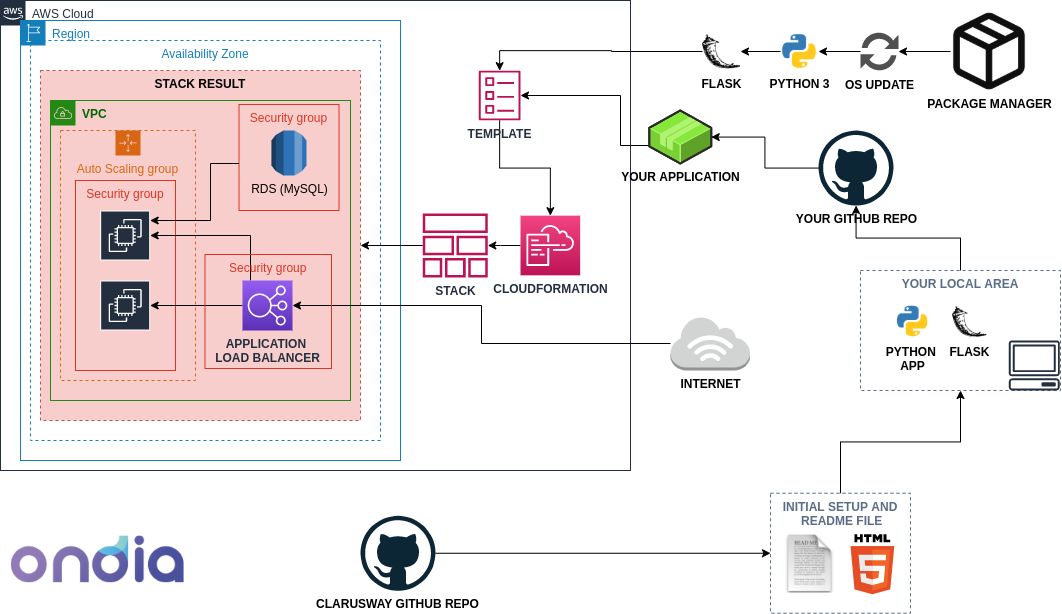
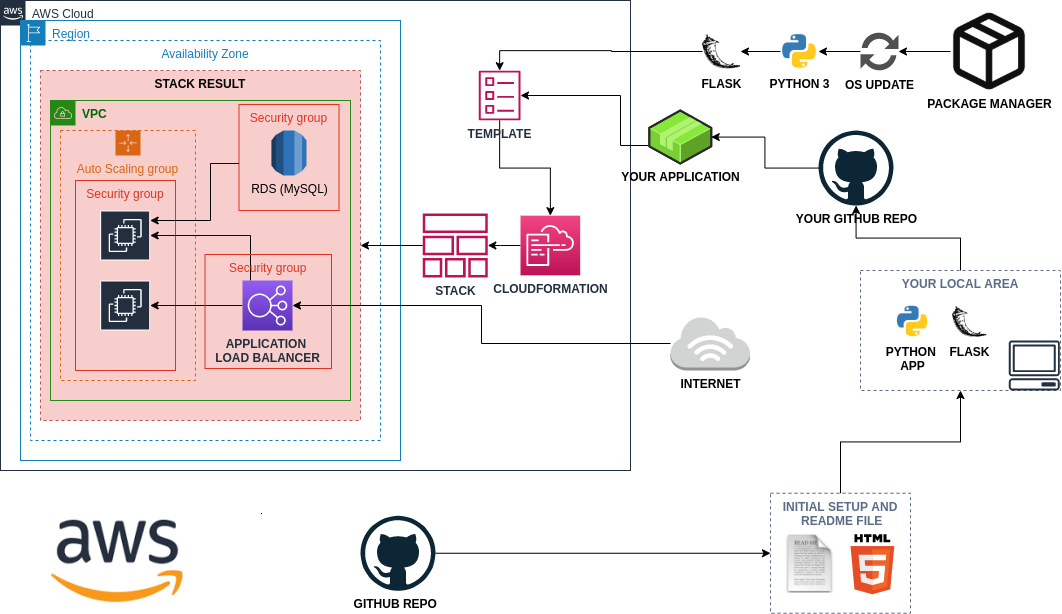
htmls and yaml updated

Changed region(s): [[0.0, 0.8355, 0.1864, 0.9902], [0.2797, 0.9593, 0.4661, 0.9902]]

diff --git a/solution/templates/add-update.html b/solution/templates/add-update.html
@@ -63,7 +63,7 @@
 <body>
 
   <div><img style="width:200px; height:50px"
-      src="https://raw.githubusercontent.com/paul-clarusway/images/refs/heads/main/ondia.png" /></div>
+      src="https://upload.wikimedia.org/wikipedia/commons/9/93/Amazon_Web_Services_Logo.svg" /></div>
 
   <h1>Project : Phonebook Application</h1>
   <h2>Welcome to {{developer_name}}'s Phonebook Application</h2>

diff --git a/solution/templates/delete.html b/solution/templates/delete.html
@@ -63,7 +63,7 @@
 <body>
 
   <div><img style="width:200px; height:50px"
-      src="https://raw.githubusercontent.com/paul-clarusway/images/refs/heads/main/ondia.png" /></div>
+      src="https://upload.wikimedia.org/wikipedia/commons/9/93/Amazon_Web_Services_Logo.svg" /></div>
 
   <h1>Project : Phonebook Application</h1>
   <h2>Welcome to {{developer_name}}'s Phonebook Application</h2>

diff --git a/solution/templates/index.html b/solution/templates/index.html
@@ -63,7 +63,7 @@
 <body>
 
   <div><img style="width:200px; height:50px"
-      src="https://raw.githubusercontent.com/paul-clarusway/images/refs/heads/main/ondia.png" /></div>
+      src="https://upload.wikimedia.org/wikipedia/commons/9/93/Amazon_Web_Services_Logo.svg" /></div>
 
   <h1>Project : Phonebook Application</h1>
   <h2>Welcome to {{developer_name}}'s Phonebook Application</h2>

diff --git a/templates/add-update.html b/templates/add-update.html
@@ -63,7 +63,7 @@
 <body>
 
   <div><img style="width:200px; height:50px"
-      src="https://raw.githubusercontent.com/paul-clarusway/images/refs/heads/main/ondia.png" /></div>
+      src="https://upload.wikimedia.org/wikipedia/commons/9/93/Amazon_Web_Services_Logo.svg" /></div>
 
   <h1>Project : Phonebook Application</h1>
   <h2>Welcome to {{developer_name}}'s Phonebook Application</h2>

diff --git a/templates/delete.html b/templates/delete.html
@@ -63,7 +63,7 @@
 <body>
 
   <div><img style="width:200px; height:50px"
-      src="https://raw.githubusercontent.com/paul-clarusway/images/refs/heads/main/ondia.png" /></div>
+      src="https://upload.wikimedia.org/wikipedia/commons/9/93/Amazon_Web_Services_Logo.svg" /></div>
 
   <h1>Project : Phonebook Application</h1>
   <h2>Welcome to {{developer_name}}'s Phonebook Application</h2>

diff --git a/templates/index.html b/templates/index.html
@@ -63,7 +63,7 @@
 <body>
 
   <div><img style="width:200px; height:50px"
-      src="https://raw.githubusercontent.com/paul-clarusway/images/refs/heads/main/ondia.png" /></div>
+      src="https://upload.wikimedia.org/wikipedia/commons/9/93/Amazon_Web_Services_Logo.svg" /></div>
 
   <h1>Project : Phonebook Application</h1>
   <h2>Welcome to {{developer_name}}'s Phonebook Application</h2>
